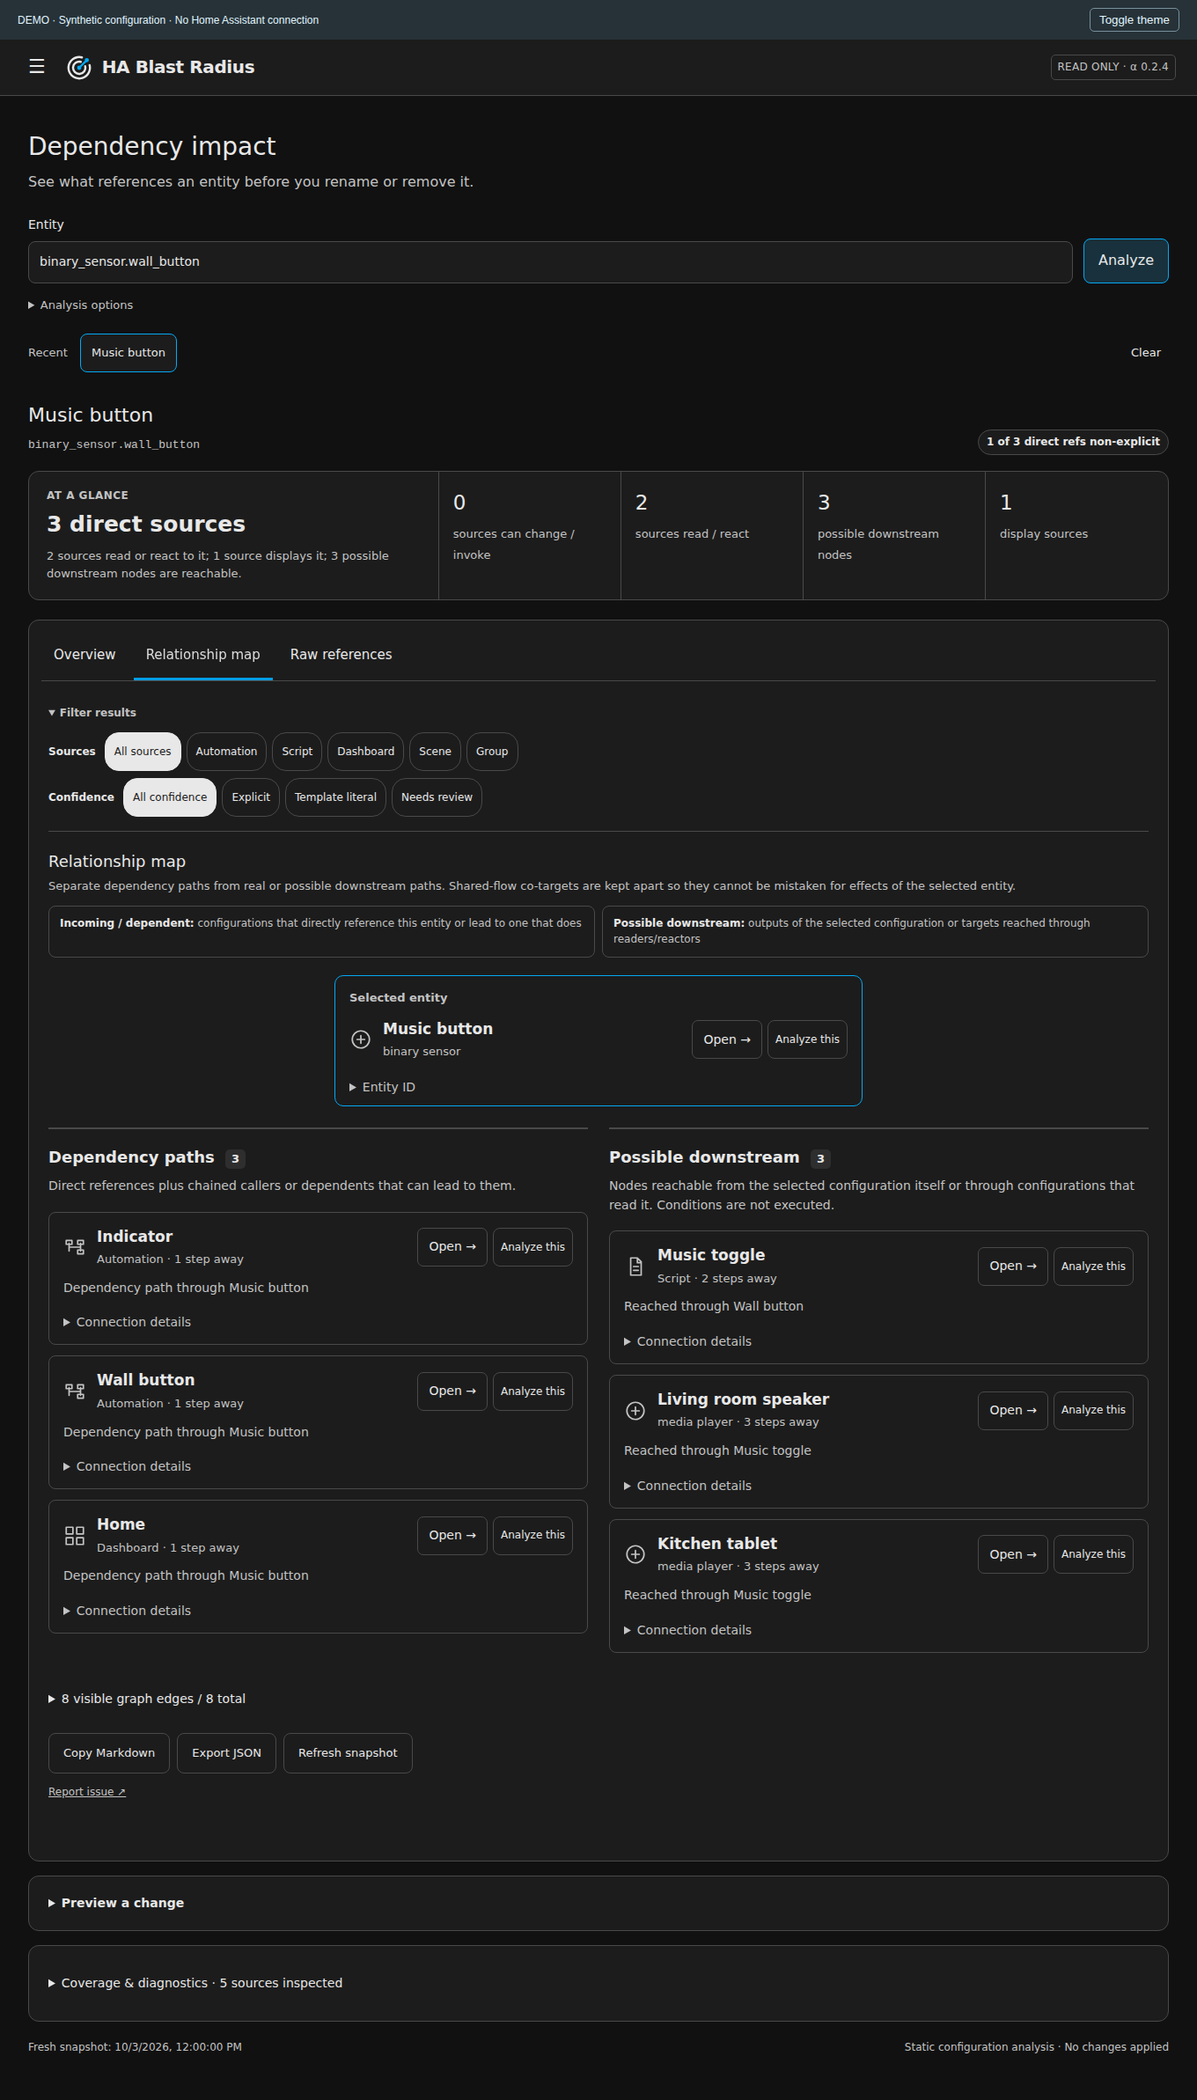
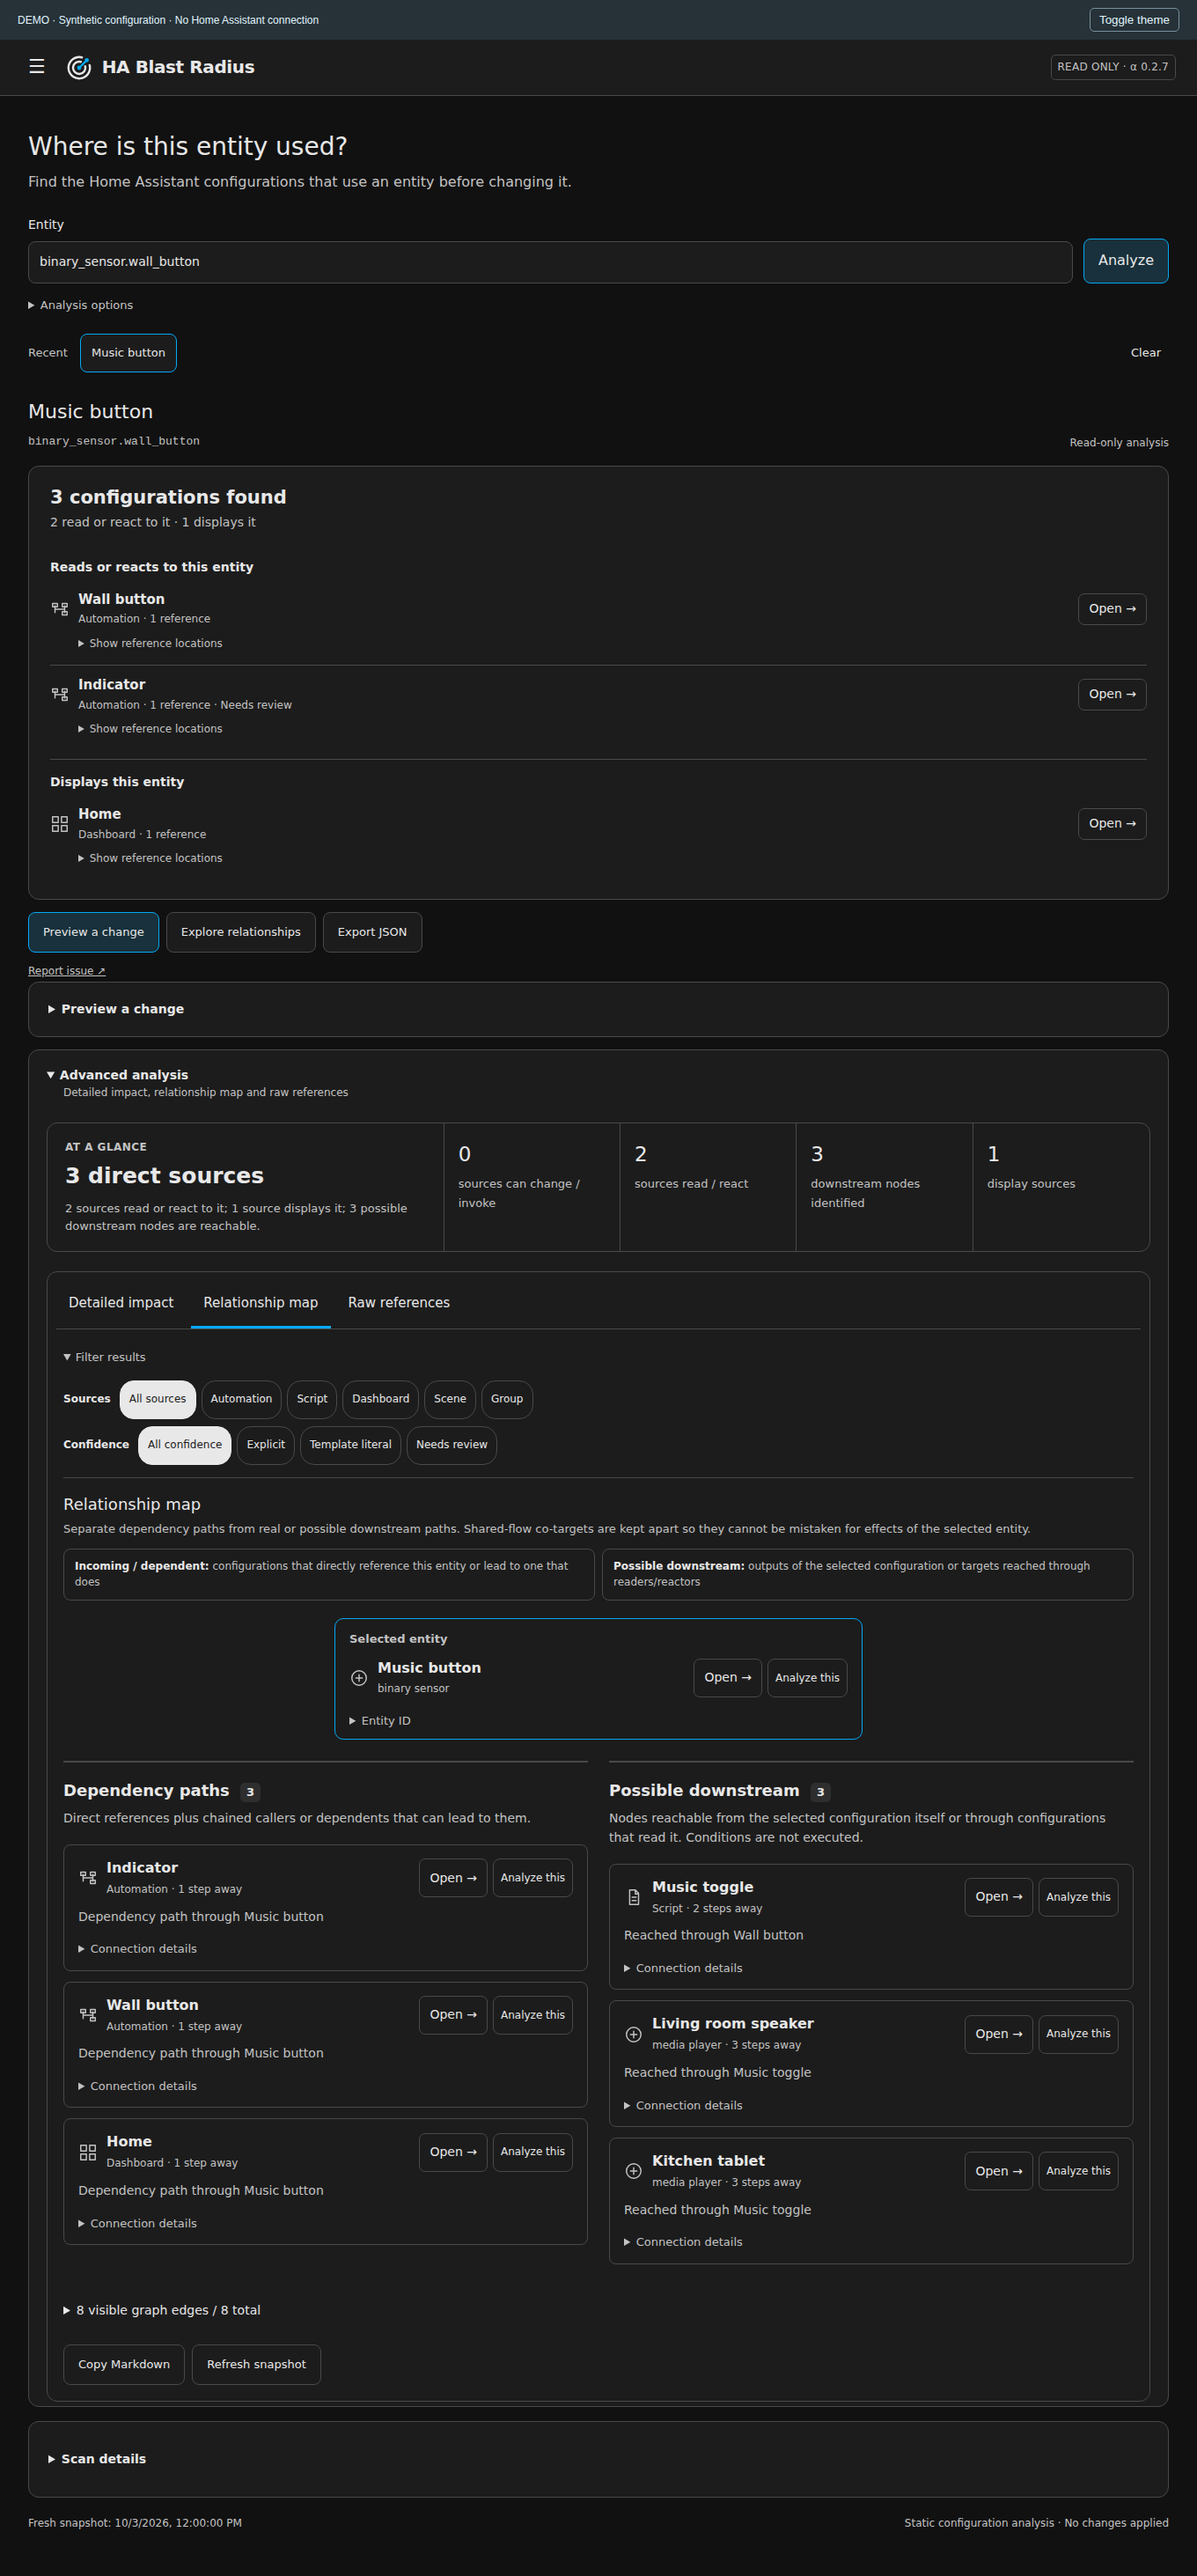
build: refresh bundled panel and synthetic screenshots

diff --git a/custom_components/blast_radius/frontend/blast-radius.js b/custom_components/blast_radius/frontend/blast-radius.js
@@ -3119,12 +3119,12 @@ var rt = {
 			structural: "Includes this entity",
 			other: "Other references"
 		}, r = {
-			change: "can change it",
-			invoke: "can call it",
-			read: "read or react to it",
-			display: "display it",
-			structural: "include it",
-			other: "reference it"
+			change: ["can change it", "can change it"],
+			invoke: ["can call it", "can call it"],
+			read: ["reads or reacts to it", "read or react to it"],
+			display: ["displays it", "display it"],
+			structural: ["includes it", "include it"],
+			other: ["references it", "reference it"]
 		}, i = /* @__PURE__ */ new Map();
 		for (let t of e.references) {
 			let e = i.get(t.source_id);
@@ -3143,7 +3143,7 @@ var rt = {
 		}
 		let o = t.flatMap((e) => {
 			let t = a.get(e)?.length || 0;
-			return t ? [`${t} ${r[e]}`] : [];
+			return t ? [`${t} ${r[e][t === 1 ? 0 : 1]}`] : [];
 		}), s = i.size, c = this.downstreamStats(e).possible > 0;
 		return j`<section
       class="plain-impact"
@@ -3165,27 +3165,32 @@ var rt = {
         >
           <h4>${n[e]}</h4>
           <div class="plain-use-list">
-            ${t.map(({ id: e, refs: t }) => j`<article class="plain-source" data-source=${e}>
+            ${t.map(({ id: t, refs: n }) => j`<article class="plain-source" data-source=${t}>
                   <div class="plain-source-header">
                     <div class="source-heading">
-                      ${X(t[0].source_type)}
+                      ${X(n[0].source_type)}
                       <div>
-                        <h5>${this.sourceName(e)}</h5>
+                        <h5>${this.sourceName(t)}</h5>
                         <p>
-                          ${q[t[0].source_type] || t[0].source_type}
-                          · ${t.length}
-                          ${t.length === 1 ? "reference" : "references"}
-                          ${t.some((e) => e.confidence !== "explicit") ? j` ·
+                          ${q[n[0].source_type] || n[0].source_type}
+                          · ${n.length}
+                          ${n.length === 1 ? "reference" : "references"}
+                          ${e !== "read" && n.some((e) => this.referenceCategory(e) === "read") ? j` · also reads it` : N}
+                          ${n.some((e) => e.confidence !== "explicit") ? j` ·
                                   <span class="review-hint">Needs review</span>` : N}
                         </p>
                       </div>
                     </div>
-                    ${this.sourceControl(e, !0)}
+                    ${this.sourceControl(t, !0)}
                   </div>
                   <details class="plain-source-details">
-                    <summary>Show reference locations</summary>
+                    <summary
+                      aria-label=${`Show reference locations in ${this.sourceName(t)}`}
+                    >
+                      Show reference locations
+                    </summary>
                     <div class="plain-source-paths">
-                      ${t.map((e) => j`<div class="plain-source-path">
+                      ${n.map((e) => j`<div class="plain-source-path">
                             <span>${J(e.path)}</span>
                             ${this.badge(e.confidence)}
                             <code>${e.path}</code>

diff --git a/frontend/src/panel.ts b/frontend/src/panel.ts
@@ -1052,7 +1052,9 @@ export class BlastRadiusPanel extends LitElement {
     }
     const summary = order.flatMap((role) => {
       const count = groups.get(role)?.length || 0;
-      return count ? [`${count} ${descriptions[role][count === 1 ? 0 : 1]}`] : [];
+      return count
+        ? [`${count} ${descriptions[role][count === 1 ? 0 : 1]}`]
+        : [];
     });
     const count = bySource.size;
     const hasOutputs = this.downstreamStats(report).possible > 0;
@@ -1095,10 +1097,14 @@ export class BlastRadiusPanel extends LitElement {
                           ${sourceLabels[refs[0].source_type] || refs[0].source_type}
                           · ${refs.length}
                           ${refs.length === 1 ? "reference" : "references"}
-                          ${role !== "read" &&
-                          refs.some((ref) => this.referenceCategory(ref) === "read")
-                            ? html` · also reads it`
-                            : nothing}
+                          ${
+                            role !== "read" &&
+                            refs.some(
+                              (ref) => this.referenceCategory(ref) === "read",
+                            )
+                              ? html` · also reads it`
+                              : nothing
+                          }
                           ${
                             refs.some((ref) => ref.confidence !== "explicit")
                               ? html` ·
@@ -1111,7 +1117,9 @@ export class BlastRadiusPanel extends LitElement {
                     ${this.sourceControl(id, true)}
                   </div>
                   <details class="plain-source-details">
-                    <summary aria-label=${`Show reference locations in ${this.sourceName(id)}`}>
+                    <summary
+                      aria-label=${`Show reference locations in ${this.sourceName(id)}`}
+                    >
                       Show reference locations
                     </summary>
                     <div class="plain-source-paths">

diff --git a/frontend/test/panel.spec.ts b/frontend/test/panel.spec.ts
@@ -175,7 +175,9 @@ test("a failed refresh does not leave a stale report available to export", async
     0,
   );
   await expect(
-    page.locator(".advanced-analysis").getByText("triggers[0].entity_id", { exact: true }),
+    page
+      .locator(".advanced-analysis")
+      .getByText("triggers[0].entity_id", { exact: true }),
   ).toHaveCount(0);
 });
 
@@ -364,11 +366,15 @@ test("a large dashboard stays compact, explains unknowns and retains exact paths
       .first(),
   ).toBeVisible();
   await expect(
-    page.locator(".advanced-analysis").getByText("triggers[0].entity_id", { exact: true }),
+    page
+      .locator(".advanced-analysis")
+      .getByText("triggers[0].entity_id", { exact: true }),
   ).not.toBeVisible();
   await page.locator(".technical > summary").first().click();
   await expect(
-    page.locator(".advanced-analysis").getByText("triggers[0].entity_id", { exact: true }),
+    page
+      .locator(".advanced-analysis")
+      .getByText("triggers[0].entity_id", { exact: true }),
   ).toBeVisible();
   await page.locator(".technical > summary").first().click();
   await screenshotPanel(page, "/tmp/blast-radius-review-desktop.png");
@@ -435,7 +441,9 @@ test("analysis tabs support keyboard navigation and readable configuration locat
   await expect(impact).toBeFocused();
   await page.locator(".source-grid .technical > summary").first().click();
   await expect(
-    page.locator(".advanced-analysis").getByText("Trigger 1 › Entity ID", { exact: true }),
+    page
+      .locator(".advanced-analysis")
+      .getByText("Trigger 1 › Entity ID", { exact: true }),
   ).toBeVisible();
   expect(
     await page
